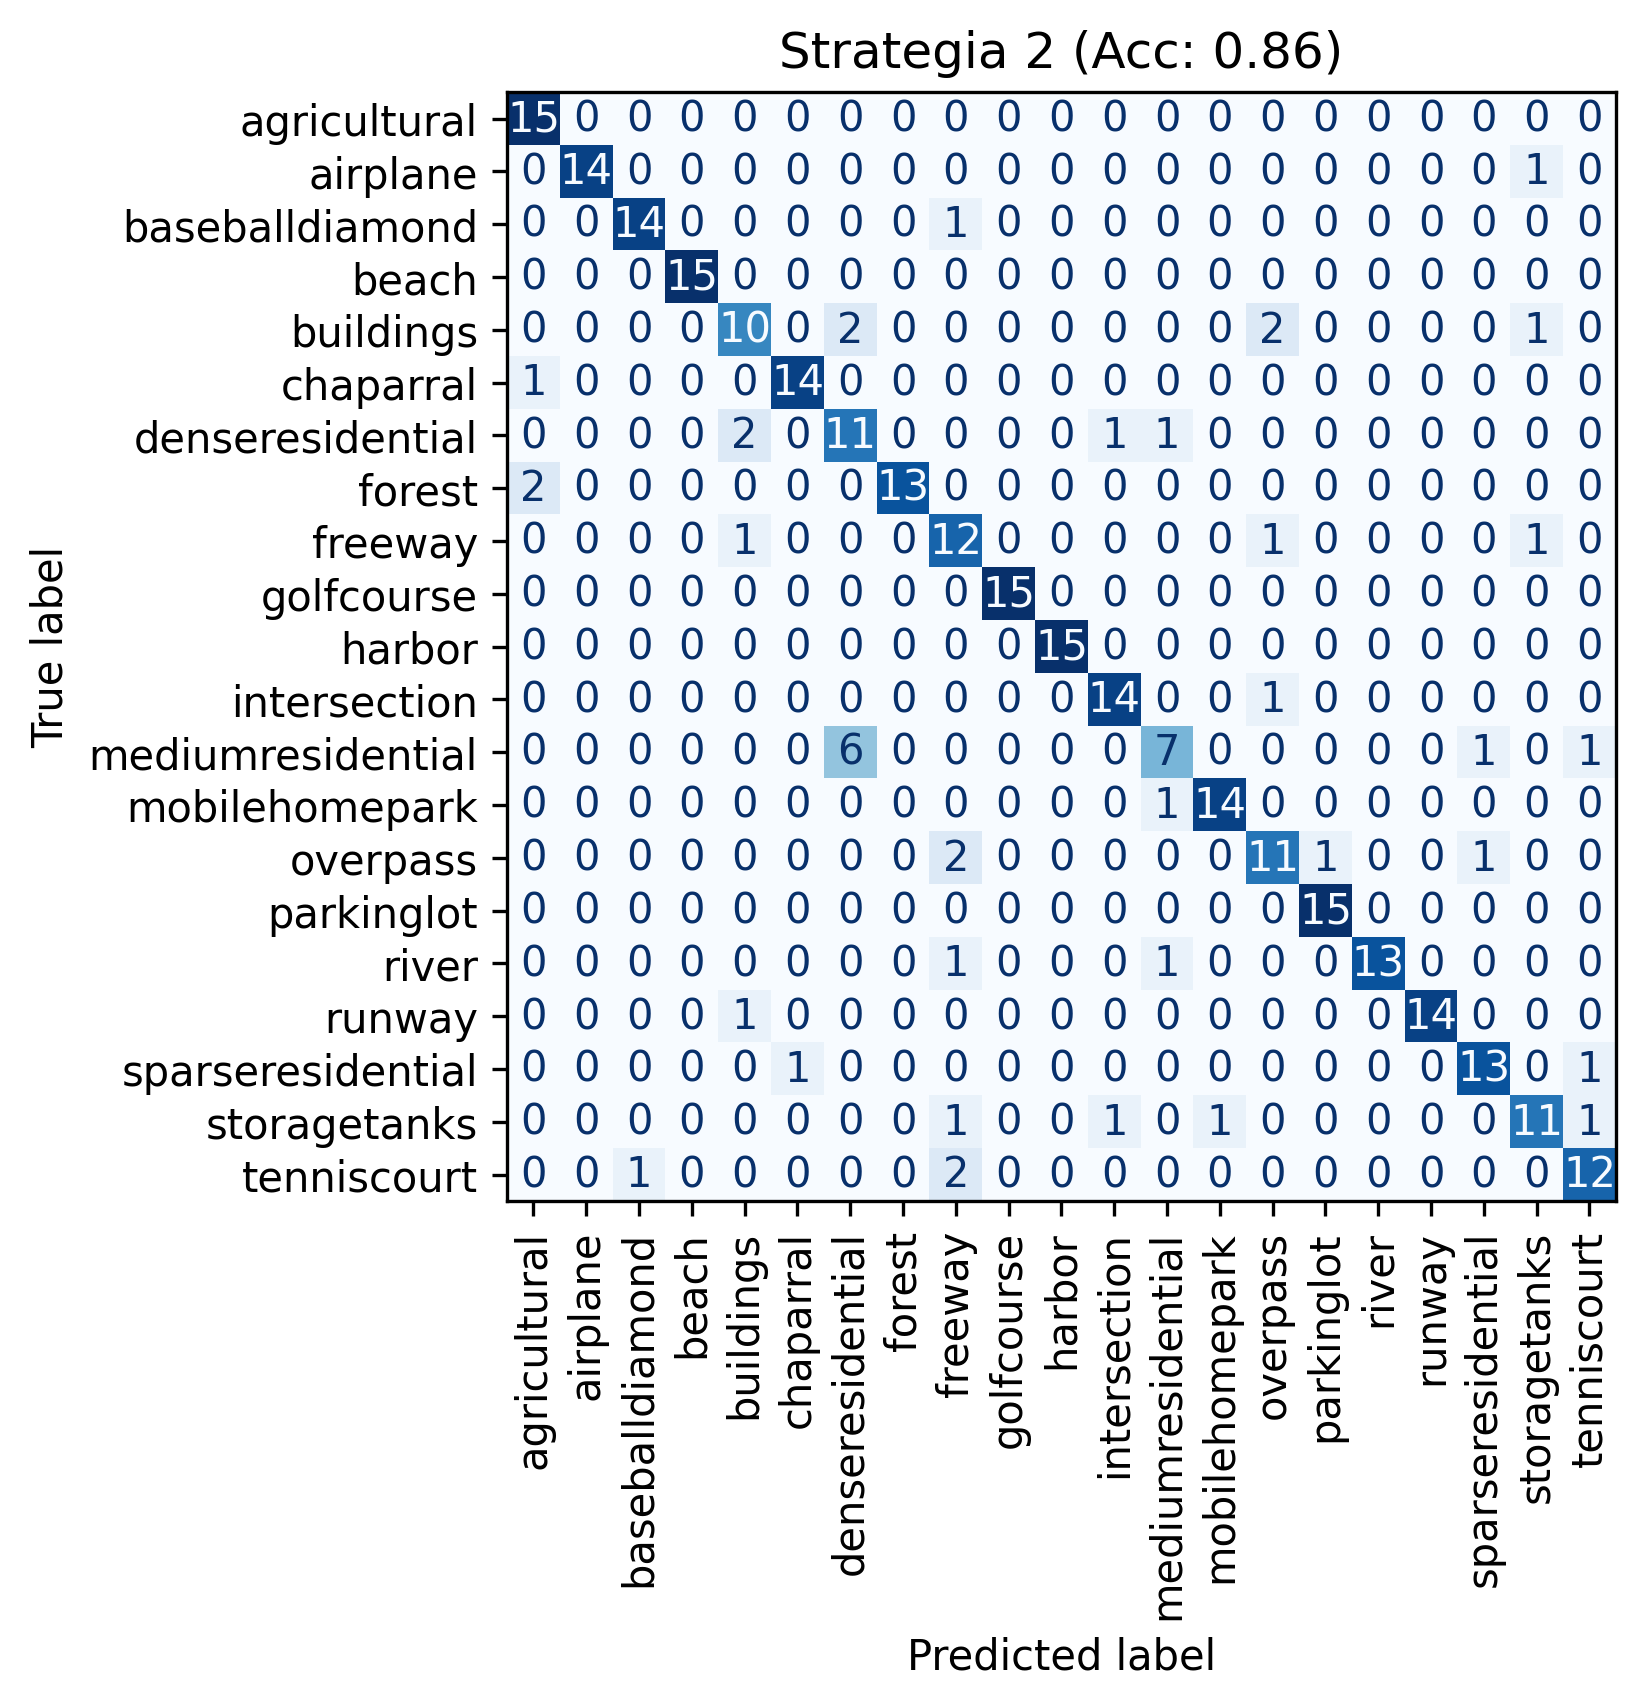
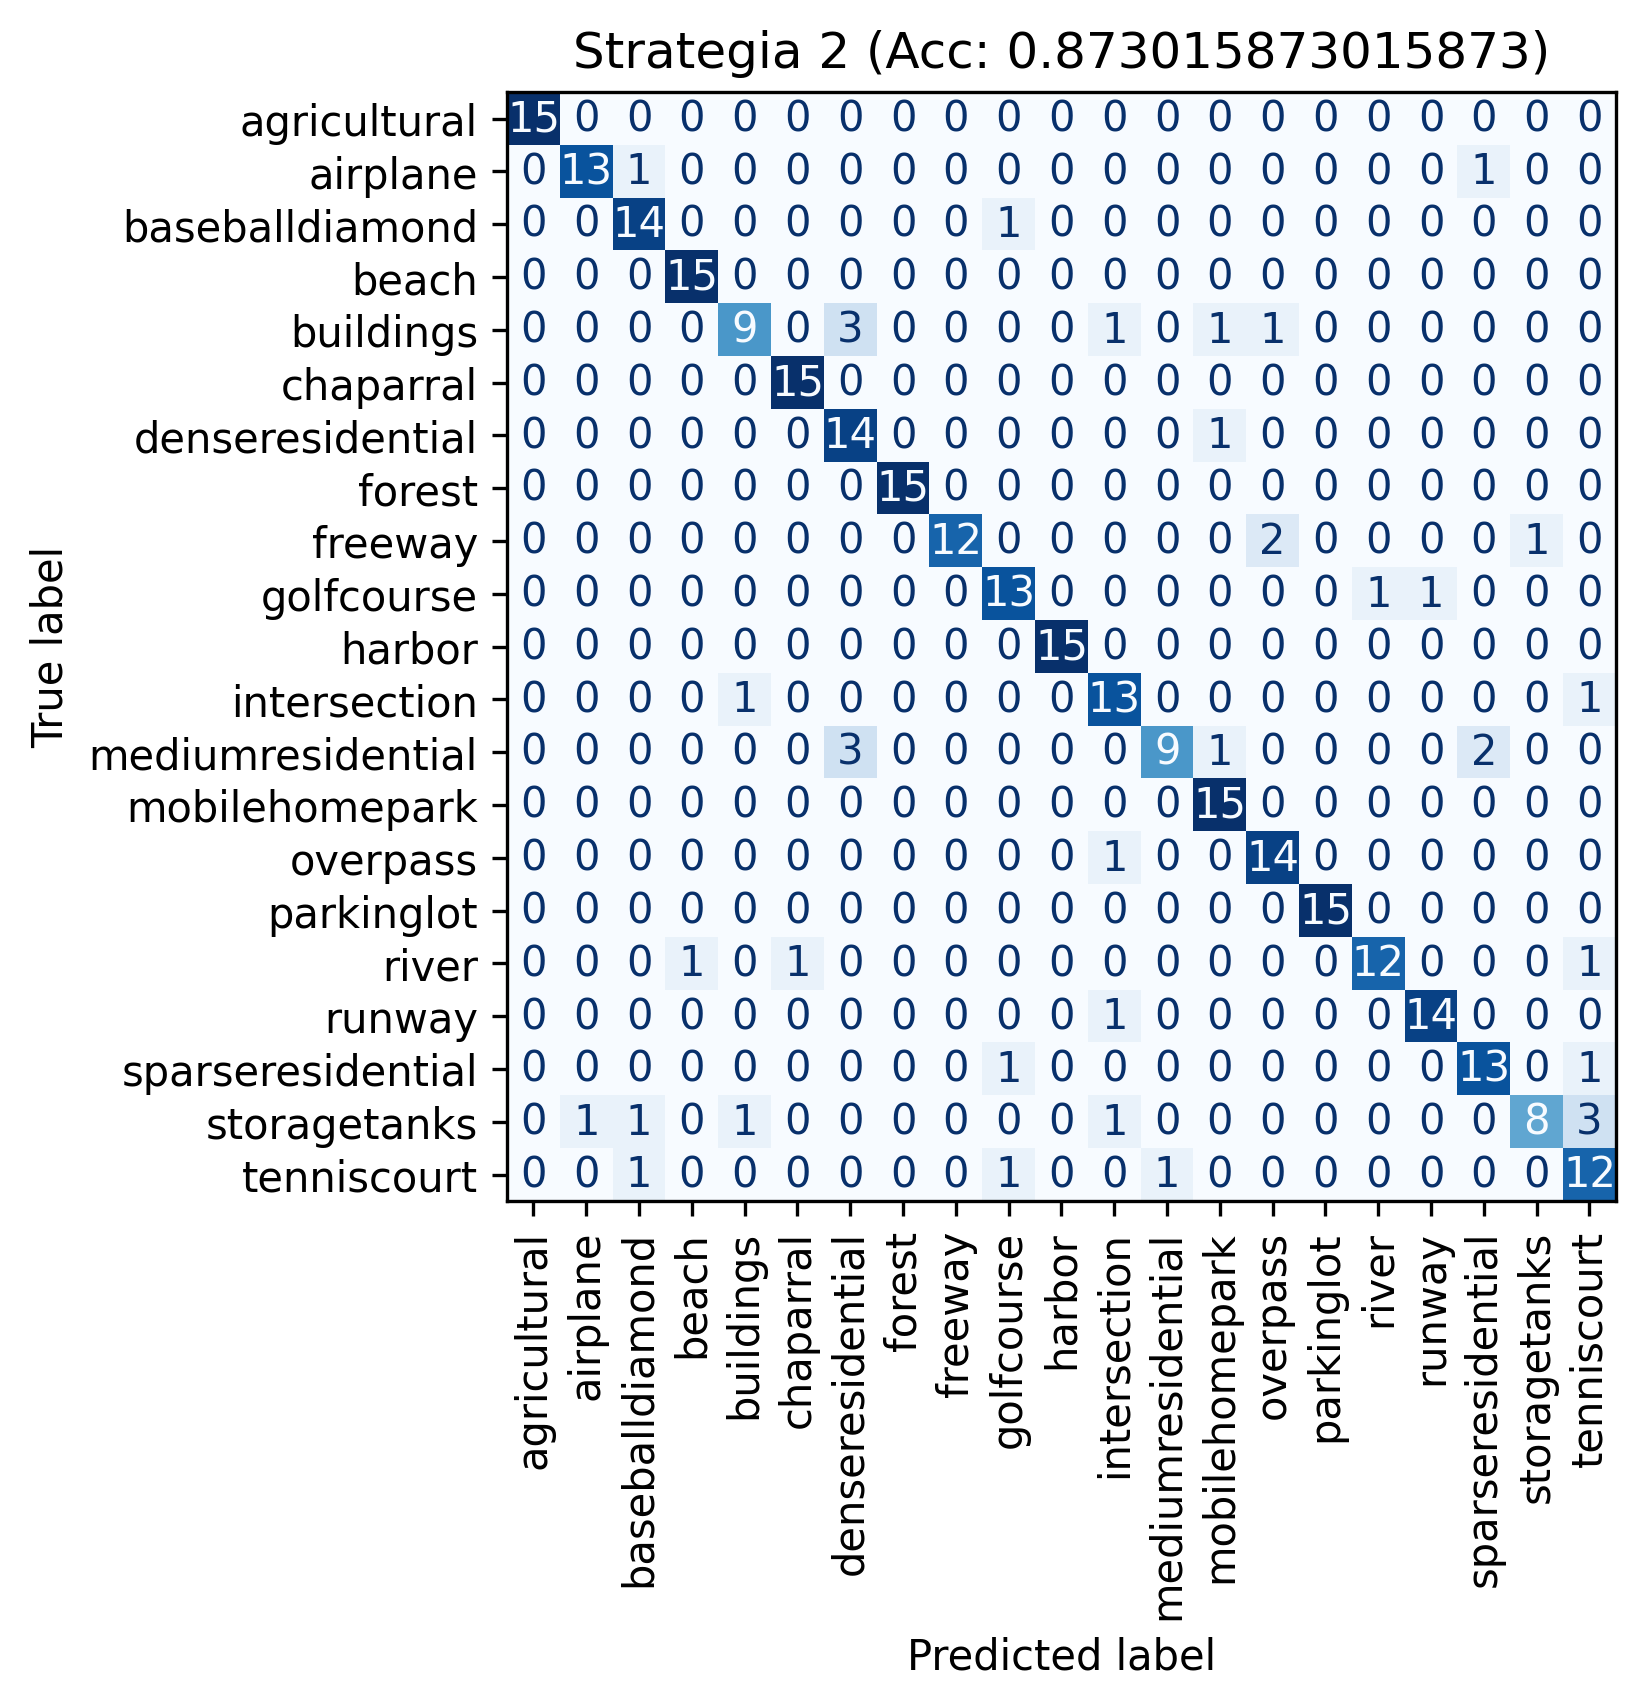
feat: update training parameters and improve comments in multiple scripts

diff --git a/Progetto_Esame/Assignment_3/Strategia2.py b/Progetto_Esame/Assignment_3/Strategia2.py
@@ -3,7 +3,7 @@ import CNN_e_Utility as utils
 
 BATCH_SIZE   = 32
 EPOCHS       = 100
-LR           = 1e-4
+LR           = 1e-3
 PATH = "/home/enrib/progetto/dataset/DATASET/UCMerced_LandUse/Images"
 
 X, y = utils.load_dataset(PATH)
@@ -14,7 +14,7 @@ print(f"Training set: {X_train.shape[0]} campioni")
 print(f"Validation set: {X_val.shape[0]} campioni")
 print(f"Test set: {X_test.shape[0]} campioni")
 
-model = utils.build_model(input_shape=X_train.shape[1:], num_classes=len(class_names), name="Strategia2")
+model = utils.build_model(input_shape=X_train.shape[1:], num_classes=len(class_names))
 model.summary()
 
 model.compile(
@@ -26,7 +26,7 @@ model.compile(
 callbacks = [
     keras.callbacks.EarlyStopping(
         monitor="val_loss", 
-        patience=10,
+        patience=7,
         restore_best_weights=True, 
         verbose=1),
 
@@ -45,7 +45,8 @@ callbacks = [
 
     keras.callbacks.TensorBoard(
         log_dir="Progetto_Esame/Assignment_3/logs/strategia2", 
-        histogram_freq=0),
+        histogram_freq=0
+        )
 ]
 
 history = model.fit(

diff --git a/Progetto_Esame/Assignment_3/Strategia1_Fase1.py b/Progetto_Esame/Assignment_3/Strategia1_Fase1.py
@@ -2,7 +2,7 @@ import keras
 import CNN_e_Utility as utils
 
 BATCH_SIZE   = 32
-EPOCHS       = 100
+EPOCHS       = 150
 LR           = 1e-3
 PATH = "/home/enrib/progetto/dataset/DATASET/AID" # path per wsl
 
@@ -24,7 +24,7 @@ model.compile(
 callbacks = [
     keras.callbacks.EarlyStopping(
         monitor="val_loss",
-        patience=10,
+        patience=7,
         restore_best_weights=True,
         verbose=1
     ),
@@ -42,8 +42,7 @@ callbacks = [
         verbose=1
     ),
     keras.callbacks.TensorBoard(
-        log_dir="Progetto_Esame/Assignment_3/logs/strategia1_fase1",
-        histogram_freq=0,
+        log_dir="Progetto_Esame/Assignment_3/logs/strategia1_fase1"
     )
 ]
 

diff --git a/Progetto_Esame/Assignment_3/Strategia1_Fase2_Opt2.py b/Progetto_Esame/Assignment_3/Strategia1_Fase2_Opt2.py
@@ -39,7 +39,7 @@ for i, layer in enumerate(pretrained_model.layers):
     else:
         layer.trainable = True
 
-print(TODO)
+#print(TODO)
 
 # rimpiazzo la testa per adattarlo al nuovo dataset
 x = pretrained_model.layers[-2].output #TODO da spiegare
@@ -57,14 +57,14 @@ model.compile(
 callbacks = [
     keras.callbacks.EarlyStopping(
         monitor="val_loss", 
-        patience=10,
+        patience=5,
         restore_best_weights=True, 
         verbose=1),
 
     keras.callbacks.ReduceLROnPlateau(
         monitor="val_loss", 
         factor=0.5, 
-        patience=5,
+        patience=3,
         min_lr=1e-7, 
         verbose=1),
 

diff --git a/Progetto_Esame/Scarti/analysis_results.md b/Progetto_Esame/Scarti/analysis_results.md
@@ -1,0 +1,198 @@
+# Analisi della Rete CNN Residuale Custom
+
+## 1. Panoramica dell'architettura
+
+La rete è una **ResNet custom pre-activation (v2)** con configurazione **[3, 4, 12, 6]** blocchi e uno stem in stile **ResNet-C** (tre Conv 3×3 al posto della singola Conv 7×7).
+
+| Componente | Dettaglio |
+|---|---|
+| **Stem** | 3 × Conv2D 3×3 + MaxPool 3×3 (÷8 totale) |
+| **Backbone** | 25 blocchi residuali pre-activation |
+| **Pool finale** | MaxPooling2D 2×2 (÷2 aggiuntivo) |
+| **Classifier** | Flatten → Dense(1024) → Dense(512) → Dense(num_classes) |
+| **Regolarizzazione** | BN ovunque + Dropout 0.5 nel MLP |
+| **Attivazione** | GELU (configurabile) |
+
+---
+
+## 2. Flusso delle dimensioni spaziali (input 256×256)
+
+```
+Layer / Stage                  Dimensione       Filtri    Note
+─────────────────────────────────────────────────────────────────
+Input                          256 × 256 × 3     —
+Stem Conv1 (s=2)               128 × 128 × 32    32
+Stem Conv2 (s=1)               128 × 128 × 32    32       elabora a mezza ris.
+Stem Conv3 (s=2)                64 ×  64 × 64    64
+Stem MaxPool (s=2)              32 ×  32 × 64    64       ÷8 totale dallo stem
+Stage 1 (×3, s=1)               32 ×  32 × 64    64
+Stage 2 (×4, primo s=2)         16 ×  16 × 128  128
+Stage 3 (×12, primo s=2)         8 ×   8 × 256  256
+Stage 4 (×6, primo s=2)          4 ×   4 × 512  512
+BN + Act finale                  4 ×   4 × 512  512
+MaxPool finale (s=2)             2 ×   2 × 512  512       ÷2 aggiuntivo
+Flatten                         2048              —        2×2×512
+Dense(1024)                     1024              —
+Dense(512)                       512              —
+Dense(num_classes)              num_classes        —
+```
+
+> [!NOTE]
+> Con input 600×600 (originale non ridimensionato), il vettore dopo Flatten sarebbe 4×4×512 = **8192** invece di **2048**. Questo quadruplica i parametri del primo layer Dense (da ~2M a ~8.4M). Il resize a 256 è quindi una scelta pragmatica sensata per il training.
+
+---
+
+## 3. Stima parametri
+
+### Backbone (Conv + BN)
+
+| Stage | Blocchi | Filtri in → out | Parametri Conv (stimati) | Note |
+|---|---|---|---|---|
+| Stem | — | 3→32→32→64 | ~28 K | 3 Conv 3×3 |
+| Stage 1 | 3 | 64→64 | ~3 × 73K ≈ **221 K** | Nessuna proiezione |
+| Stage 2 | 4 | 64→128 (primo), 128→128 | ~8K (proj) + 73K + 3×295K ≈ **966 K** | Proiezione 1×1 nel primo blocco |
+| Stage 3 | 12 | 128→256 (primo), 256→256 | ~33K (proj) + 295K + 11×1.18M ≈ **13.3 M** | Blocco dominante |
+| Stage 4 | 6 | 256→512 (primo), 512→512 | ~131K (proj) + 1.18M + 5×4.72M ≈ **24.9 M** | Più parametri/blocco |
+| **Totale backbone** | | | **~39.4 M** | |
+
+### Classifier (MLP)
+
+| Layer | Parametri |
+|---|---|
+| Dense(1024) | 2048 × 1024 + 1024 = **~2.1 M** |
+| Dense(512) | 1024 × 512 + 512 = **~524 K** |
+| Dense(21) | 512 × 21 + 21 = **~10.8 K** |
+| BN (×2) | ~3 K |
+| **Totale MLP** | **~2.6 M** |
+
+### Totale complessivo stimato: **~42 M parametri**
+
+> [!IMPORTANT]
+> La rete ha circa **42 milioni di parametri**. È un modello di dimensioni paragonabili a una ResNet-50 (~25.5M) ma più profondo nella parte centrale (12 blocchi nello Stage 3). I 6 blocchi finali a 512 filtri sono il componente più pesante.
+
+---
+
+## 4. Analisi delle scelte architetturali
+
+### ✅ Cose fatte bene
+
+1. **Stem ResNet-C**: Tre Conv 3×3 → campo recettivo equivalente a una 7×7 ma con **meno parametri** e **più non-linearità**. Scelta consolidata (usata in ResNet-D, ResNeXt, etc.).
+
+2. **Pre-activation (ResNet v2)**: L'ordine BN → Act → Conv garantisce che lo **shortcut sia un'identità pura**, il che migliora il flusso dei gradienti nei modelli profondi. Scelta corretta per una rete con 25 blocchi.
+
+3. **BN + Act finale esplicita** (riga 202-203): Necessaria e correttamente implementata. Nell'ultimo blocco pre-activation, l'output esce dall'Add senza attivazione — la BN+Act esplicita chiude correttamente la catena.
+
+4. **`use_bias=False`** su tutte le Conv seguite da BN: Corretto, il bias è ridondante con il parametro β della BatchNorm.
+
+5. **Data augmentation**: Inserita come layer del modello → automaticamente disattivata in inference. Rotazioni fino a ±90° sono appropriate per immagini aeree/satellitari (l'orientamento è arbitrario).
+
+6. **Dropout 0.5**: Aggressivo ma giustificato per un modello di questa taglia con dataset relativamente piccoli (AID ~10K immagini, UC Merced ~2.1K).
+
+7. **Naming convention `mlp_`**: Facilita il fine-tuning selettivo (come in [Strategia1_Fase2_Opt1.py](file:///c:/Users/enrib/Documents/Ing_Informatica_LM32/Computer-Vision/Progetto_Esame/Assignment_3/Strategia1_Fase2_Opt1.py#L42)).
+
+### ⚠️ Punti di attenzione e potenziali criticità
+
+#### 4.1 — Resize 600→256: impatto sulla perdita di informazione
+
+Le immagini originali sono 600×600. Il resize a 256×256 comporta un **fattore di riduzione ~5.5x nell'area** (da 360K pixel a 65K pixel).
+
+Per immagini aeree, dove i dettagli fini contano (es. storage tanks, tennis courts, sparse buildings), questa riduzione può essere significativa. Tuttavia:
+
+- Il dataset AID ha **10.000 immagini a 600×600**, e il resize riduce enormemente l'uso di RAM (~3.5 GB per AID a 256 vs ~13 GB a 600, in float32).
+- Il resize è un **trade-off ragionevole** per il pre-training dove il volume di dati compensa parzialmente la perdita di dettaglio.
+
+> [!TIP]
+> Se le risorse lo consentono, potresti valutare un resize a **384×384** come compromesso: mantieni ~4x più pixel rispetto a 256 e i tempi di training aumentano di ~2.25x. Le dimensioni spaziali restano compatibili con la rete (384 ÷ 16 = 24, tutte le divisioni per 2 funzionano senza problemi di arrotondamento).
+
+#### 4.2 — Commenti interni dello stem con dimensioni "600"
+
+Nei commenti alla riga 157 si legge:
+
+```python
+# (300×300 per input 600×600)
+```
+
+E nella tabella dimensioni dello Stage alla riga 178:
+
+```
+# 600: 75×75  |  256: 32×32
+```
+
+Questi commenti si riferiscono al caso con input originale 600×600. **Sono corretti come documentazione**, ma dato che le immagini vengono **sempre** passate a 256×256 (anche nel pre-training, vedi `load_dataset` alla riga 20), la colonna "600" nei commenti descrive uno scenario che non viene mai eseguito nel codice attuale. Non è un bug, ma può confondere chi legge.
+
+#### 4.3 — Proiezione shortcut nel blocco pre-activation
+
+Alla [riga 98](file:///c:/Users/enrib/Documents/Ing_Informatica_LM32/Computer-Vision/Progetto_Esame/Assignment_3/CNN_e_Utility.py#L98):
+
+```python
+shortcut = layers.Conv2D(filters, 1, strides=stride, padding="same", use_bias=False)(shortcut)
+```
+
+La proiezione viene applicata sull'**input originale `x`** (prima di BN+Act). Nella letteratura pre-activation originale (He et al. 2016), ci sono due varianti:
+- **Variante A** (la tua): proiezione sullo shortcut grezzo → semplice e funziona bene in pratica.
+- **Variante B**: proiezione dopo BN+Act → teoricamente più coerente.
+
+La tua implementazione è la variante più comune e va bene. Nota solo che lo shortcut bypassa la prima BN+Act, il che introduce un lieve disallineamento di scala. In pratica, l'effetto è trascurabile.
+
+#### 4.4 — MaxPool finale vs GlobalMaxPool
+
+Usi `MaxPooling2D(2, 2)` alla riga 209 che porta la dimensione a 2×2. Il Flatten produce poi 2048 valori. Questo è conforme al vincolo dell'assignment (no average pooling). Tuttavia:
+
+- Un **GlobalMaxPooling2D** produrrebbe un vettore di 512 valori indipendentemente dalla risoluzione di input → renderebbe la rete **agnostica alla risoluzione**.
+- Con il tuo design attuale, se cambi la risoluzione di input (es. 384×384), il Flatten produrrà 3×3×512 = 4608 e **i layer Dense non saranno compatibili** con i pesi pre-addestrati a 256.
+
+> [!WARNING]
+> L'assignment vieta **average pooling** ma NON vieta **max pooling globale**. Un `GlobalMaxPooling2D` renderebbe la rete più flessibile per il fine-tuning a risoluzioni diverse. Con il design attuale sei **vincolato a usare 256×256 anche nel fine-tuning**, il che è gestibile ma limita le opzioni.
+
+#### 4.5 — RAM: caricamento interamente in memoria
+
+`load_dataset()` carica **tutte** le immagini in un singolo `np.array`. Per AID a 256×256:
+
+```
+10.000 immagini × 256 × 256 × 3 bytes = ~1.88 GB (uint8)
+                                        ~7.5 GB (float32 dopo normalizzazione implicita)
+```
+
+Questo funziona su macchine con 16+ GB di RAM, ma potrebbe essere al limite. Se riscontri problemi di memoria, un `tf.data.Dataset` con caricamento lazy sarebbe più robusto. Per UC Merced (~2100 immagini) non è un problema.
+
+#### 4.6 — Normalizzazione degli input
+
+Non vedo un passaggio esplicito di **normalizzazione pixel** (es. `X = X / 255.0` o `X = X.astype('float32') / 255.0`). Il range [0, 255] uint8 viene passato direttamente alla rete.
+
+> [!CAUTION]
+> **Verifica se la normalizzazione avviene altrove** (negli script di training). Se il modello riceve valori [0, 255] interi, la BatchNorm nello stem può comunque adattarsi, ma:
+> - La convergenza sarà **più lenta** rispetto a input normalizzati in [0, 1].
+> - I gradienti iniziali saranno più grandi del necessario.
+> - La data augmentation (RandomBrightness, RandomContrast) potrebbe comportarsi diversamente su range diversi.
+>
+> **Ti consiglio fortemente di aggiungere `X = X.astype('float32') / 255.0`** dopo il caricamento, oppure un `layers.Rescaling(1./255)` come primo layer prima della data augmentation.
+
+---
+
+## 5. Profondità e campo recettivo
+
+Con 25 blocchi residuali (2 Conv 3×3 ciascuno = 50 Conv) + 3 Conv nello stem = **53 layer convoluzionali**, la rete è paragonabile in profondità a una **ResNet-101** (senza bottleneck).
+
+Il campo recettivo teorico a 256×256 è molto ampio (copre facilmente l'intera immagine grazie ai 4 livelli di downsampling ÷2 nel backbone + ÷8 nello stem = **÷128 totale**), il che è appropriato per la classificazione di scene aeree dove il contesto globale è determinante.
+
+---
+
+## 6. Riepilogo e raccomandazioni
+
+| Aspetto | Valutazione | Priorità |
+|---|---|---|
+| Architettura complessiva | ✅ Solida e ben progettata | — |
+| Pre-activation blocks | ✅ Implementazione corretta | — |
+| Stem ResNet-C | ✅ Scelta moderna ed efficace | — |
+| Data augmentation | ✅ Appropriata per foto aeree | — |
+| **Normalizzazione input** | ❌ Potenzialmente mancante | **Alta** |
+| MaxPool vs GlobalMaxPool | ⚠️ Limita la flessibilità di risoluzione | Media |
+| Commenti "600×600" | ⚠️ Potenzialmente confondenti | Bassa |
+| Caricamento in memoria | ⚠️ Può saturare la RAM su AID | Media |
+| Resize 256 | ✅ Compromesso ragionevole | — |
+
+### Raccomandazioni concrete:
+
+1. **🔴 Aggiungi normalizzazione** — `X = X.astype('float32') / 255.0` in `load_dataset()` o un `layers.Rescaling(1./255)` nella rete.
+2. **🟡 Valuta GlobalMaxPooling2D** — al posto di MaxPool + Flatten per rendere la rete agnostica alla risoluzione.
+3. **🟢 Pulisci i commenti "600"** — o aggiungi una nota che indica che 600 è la dimensione originale non usata.